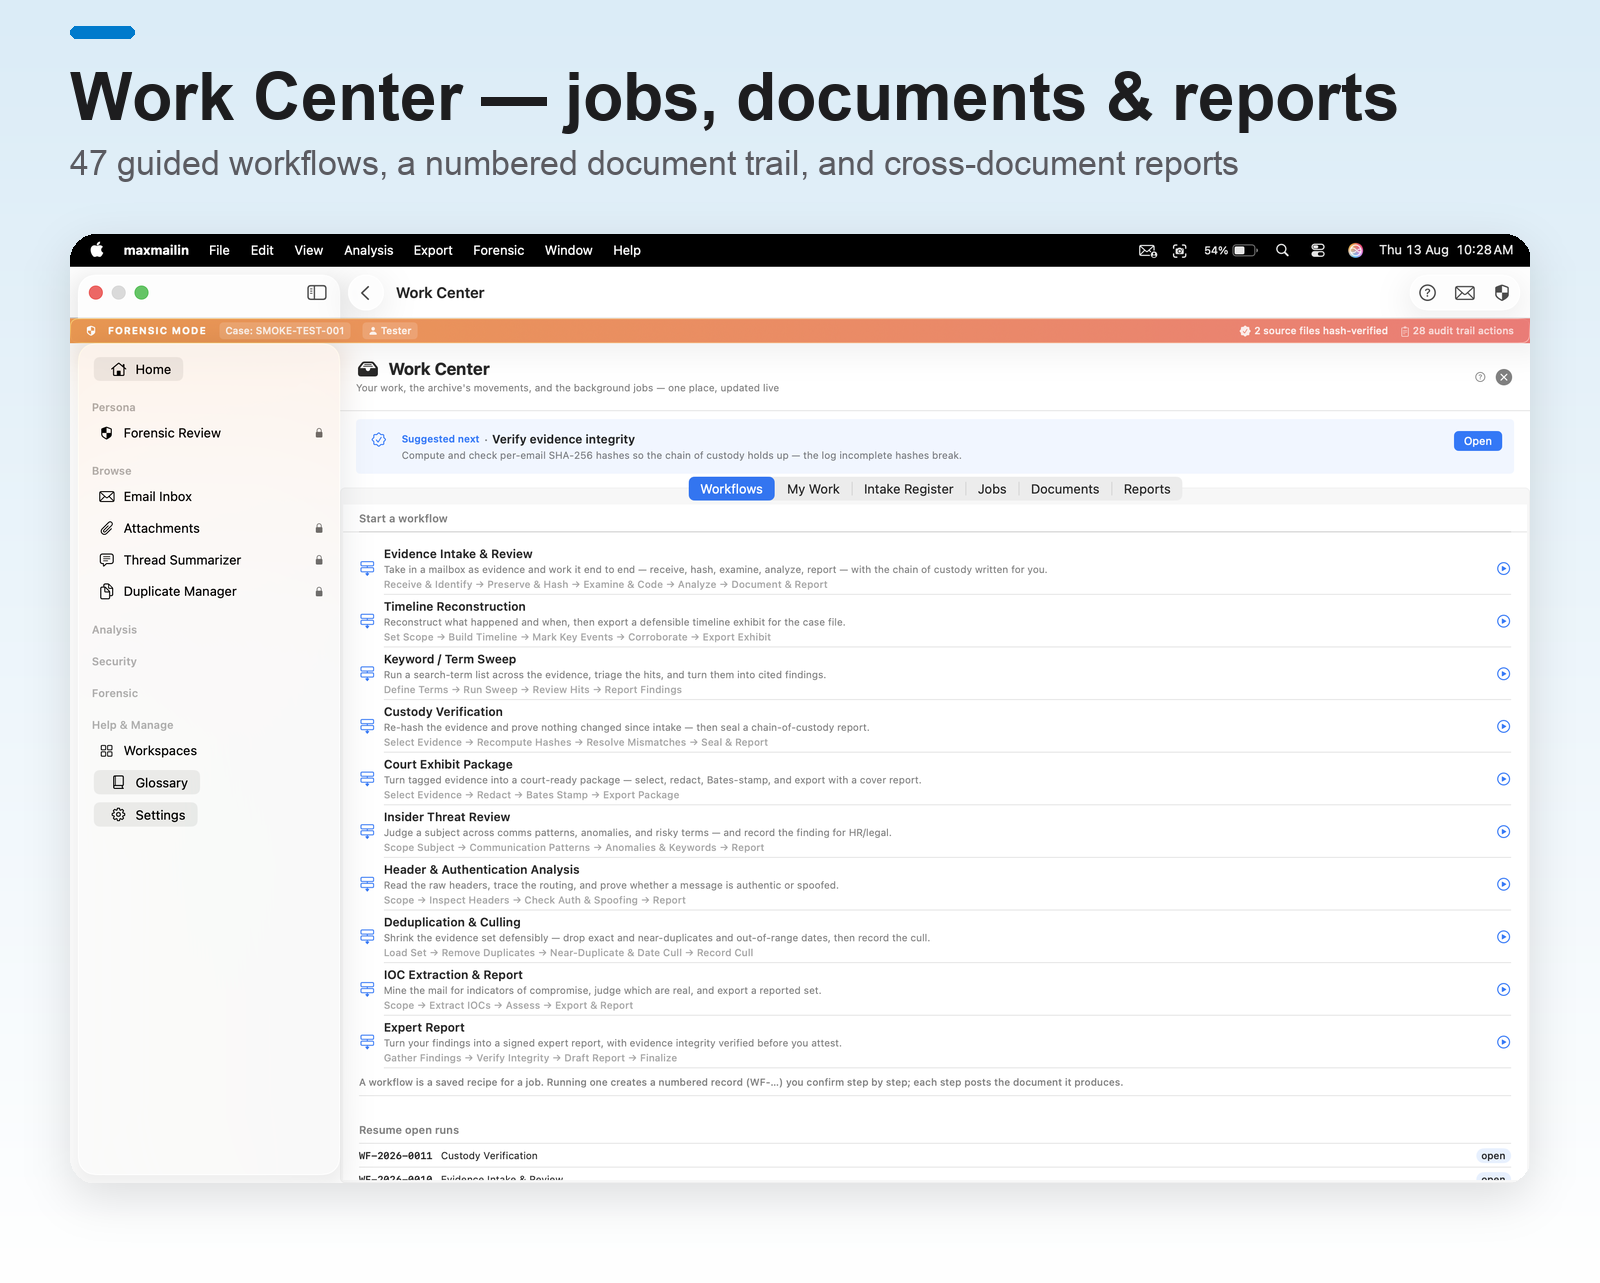
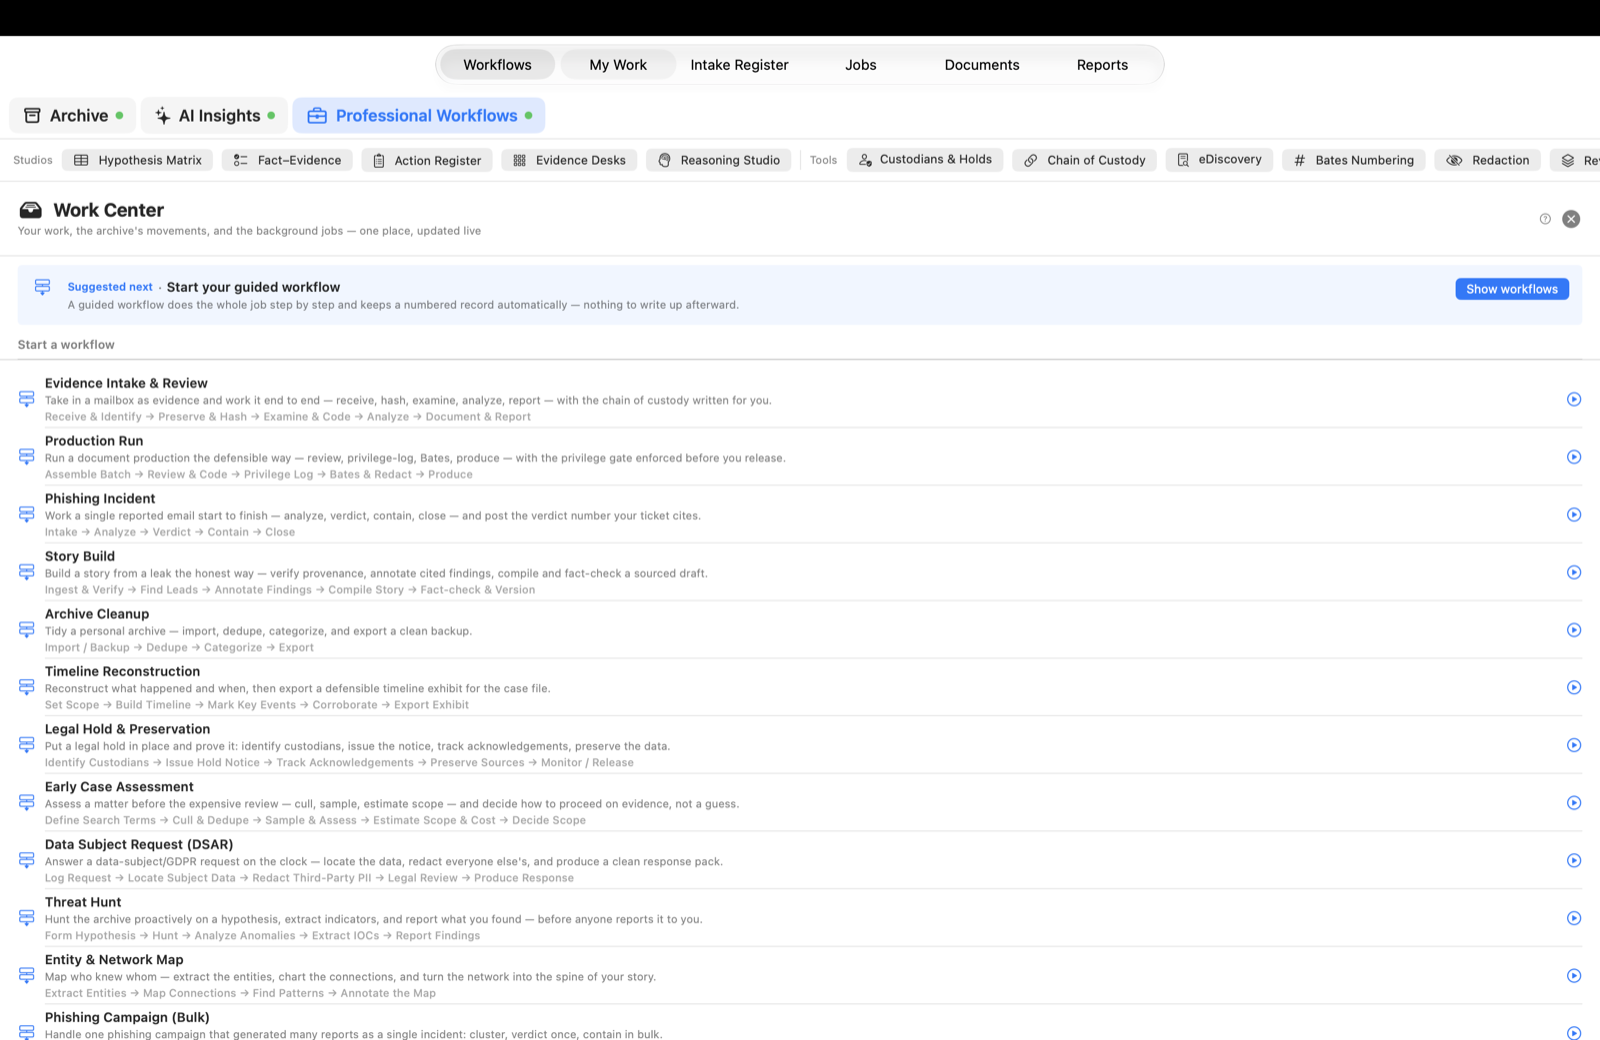
Website: 3.0 screenshots from the owner (archive list, search + detail, AI Insights ask, Work Center, Home hub, AI activation) plus a first-launch / import pre-flight / Professional activation row in the New in 3.0 section

diff --git a/docs/index.html b/docs/index.html
@@ -505,6 +505,20 @@
                 </p>
             </div>
         </div>
+        <div style="display:grid; grid-template-columns:repeat(auto-fit, minmax(280px, 1fr)); gap:18px; margin-top:28px;">
+            <figure style="margin:0;">
+                <div class="shot-card"><img src="shot-welcome.png" alt="First launch: Archive on, AI Insights and Professional Workflows off" loading="lazy" decoding="async"></div>
+                <figcaption style="font-size:12px; color:#86868b; margin-top:8px; text-align:center;">First launch. Archive is on; the other two pages are off until you switch them on.</figcaption>
+            </figure>
+            <figure style="margin:0;">
+                <div class="shot-card"><img src="shot-import.png" alt="Import pre-flight: what the files are, your choices, space needed, how it will run" loading="lazy" decoding="async"></div>
+                <figcaption style="font-size:12px; color:#86868b; margin-top:8px; text-align:center;">Import pre-flight. What the files are, your choices, the space needed and how it will run — nothing is written until you start.</figcaption>
+            </figure>
+            <figure style="margin:0;">
+                <div class="shot-card"><img src="shot-professional.png" alt="Turning on Professional Workflows: the feature list and what is included" loading="lazy" decoding="async"></div>
+                <figcaption style="font-size:12px; color:#86868b; margin-top:8px; text-align:center;">Every optional page says what it includes and what will start running before you turn it on.</figcaption>
+            </figure>
+        </div>
         <p style="text-align:center; font-size:13px; color:#86868b; margin-top:28px; max-width:640px; margin-left:auto; margin-right:auto;">
             <strong>No built-in size limit.</strong> Import streams from disk, so archive size is bounded by
             your storage, not by mailin. Verified on real mail up to 1.5 GB in one file; larger archives
@@ -520,18 +534,18 @@
     <h2>See it in <span class="gradient">action</span></h2>
     <p class="subtitle">Real screens from mailin — guided workflows, the Work Center, and the on‑device analysis tools.</p>
     <div class="shot-gallery">
-        <div class="shot-card"><img src="feature-hub.png" alt="Every tool, organized by role" loading="lazy" decoding="async"></div>
-        <div class="shot-card"><img src="feature-workcenter.png" alt="Work Center — jobs, documents and reports" loading="lazy" decoding="async"></div>
+        <div class="shot-card"><img src="feature-hub.png" alt="Home: choose your workspace — Personal, Forensic, Legal, IT Admin or Journalist" loading="lazy" decoding="async"></div>
+        <div class="shot-card"><img src="feature-workcenter.png" alt="Work Center — studios, tools and guided workflows in one place" loading="lazy" decoding="async"></div>
         <div class="shot-card"><img src="feature-runner.png" alt="Run the whole job, step by step" loading="lazy" decoding="async"></div>
         <div class="shot-card"><img src="feature-evidence.png" alt="Attach the exact files and emails to each step" loading="lazy" decoding="async"></div>
         <div class="shot-card"><img src="feature-analytics.png" alt="See the shape of your archive" loading="lazy" decoding="async"></div>
-        <div class="shot-card"><img src="feature-ai.png" alt="On-device AI by default" loading="lazy" decoding="async"></div>
-        <div class="shot-card"><img src="shot-inbox.png" alt="Browse and triage your archive" loading="lazy" decoding="async"></div>
-        <div class="shot-card"><img src="shot-search.png" alt="Structured, operator-driven search" loading="lazy" decoding="async"></div>
+        <div class="shot-card"><img src="feature-ai.png" alt="Turning on AI Insights: what it includes and what happens on-device" loading="lazy" decoding="async"></div>
+        <div class="shot-card"><img src="shot-inbox.png" alt="The archive list with filters, smart tags, tools and the Subjects panel" loading="lazy" decoding="async"></div>
+        <div class="shot-card"><img src="shot-search.png" alt="Operator-driven search with the message open beside the list" loading="lazy" decoding="async"></div>
         <div class="shot-card"><img src="shot-documents.png" alt="Numbered document trail and history" loading="lazy" decoding="async"></div>
-        <div class="shot-card"><img src="shot-workflow.png" alt="Guided workflow runner, step by step" loading="lazy" decoding="async"></div>
+        <div class="shot-card"><img src="shot-workflow.png" alt="Professional Workflows: studios, tools and the workflow catalog" loading="lazy" decoding="async"></div>
         <div class="shot-card"><img src="shot-analytics.png" alt="On-device analytics dashboard" loading="lazy" decoding="async"></div>
-        <div class="shot-card"><img src="shot-ai.png" alt="On-device AI assistant with citations" loading="lazy" decoding="async"></div>
+        <div class="shot-card"><img src="shot-ai.png" alt="AI Insights: ask anything about your archive, answers cite the messages" loading="lazy" decoding="async"></div>
     </div>
 </section>
 
@@ -635,7 +649,7 @@
             </ul>
         </div>
         <div class="showcase-image">
-<img src="shot-inbox.png" alt="mailin inbox with an email archive loaded" loading="lazy" decoding="async">
+<img src="shot-inbox.png" alt="mailin archive list with an mbox loaded" loading="lazy" decoding="async">
         </div>
     </div>
 
@@ -651,7 +665,7 @@
             </ul>
         </div>
         <div class="showcase-image">
-<img src="shot-search.png" alt="mailin search and tools" loading="lazy" decoding="async">
+<img src="shot-search.png" alt="mailin search with the message detail open" loading="lazy" decoding="async">
         </div>
     </div>
 
@@ -683,7 +697,7 @@
             </ul>
         </div>
         <div class="showcase-image">
-<img src="shot-ai.png" alt="mailin on-device AI assistant" loading="lazy" decoding="async">
+<img src="shot-ai.png" alt="mailin AI Insights page, on-device assistant" loading="lazy" decoding="async">
         </div>
     </div>
 </section>
@@ -705,7 +719,7 @@
             </ul>
         </div>
         <div class="showcase-image">
-            <img src="shot-workflow.png" alt="mailin guided workflow runner with roadmap and steps" loading="lazy" decoding="async">
+            <img src="shot-workflow.png" alt="mailin Professional Workflows page" loading="lazy" decoding="async">
         </div>
     </div>
 
